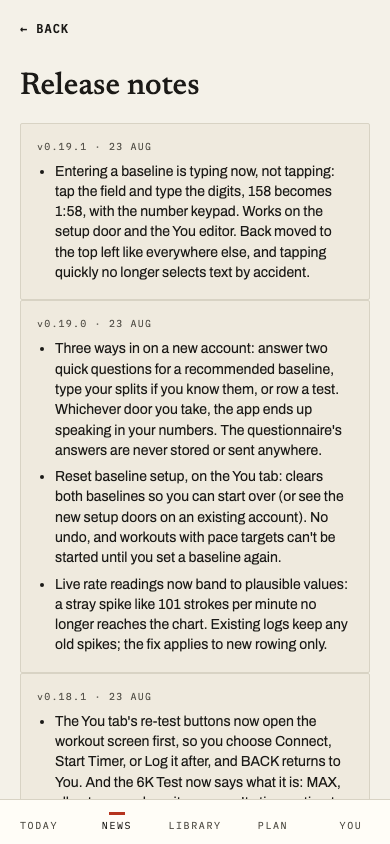
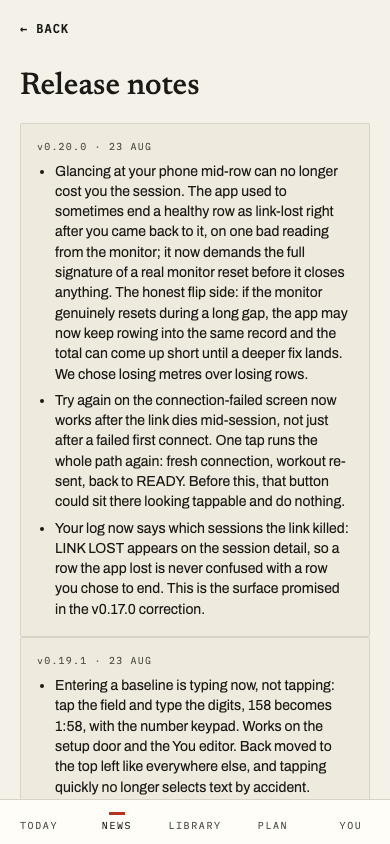
docs: v0.20.0's notes — the row you keep, the button that works, the log that says so
Range v0.19.1..main = #174 + #177, both carried; F2a's clause states both
directions per the PM gate's pre-statement.

Claude-Session: https://claude.ai/code/session_01UEXqdgDid4Qjd8D5uoRZ3H

Changed region(s): [[0.0923, 0.154, 0.8923, 0.955]]

diff --git a/app/e2e/news.spec.ts b/app/e2e/news.spec.ts
@@ -108,7 +108,7 @@ test("News at rest: 7 UNREAD, two pinned rows, five latest rows, WHAT'S NEW show
 
   await expect(page.getByRole("heading", { name: "WHAT'S NEW" })).toBeVisible();
   await expect(page.locator(".news-release-version").first()).toContainText(
-    "v0.19.1",
+    "v0.20.0",
   );
 });
 
@@ -187,25 +187,26 @@ test("/news/releases lists every version, newest first", async ({ page }) => {
   // deliberately fails here — that is this pin's job, and it is why the
   // title no longer names a number that goes stale every tag.
   const versions = page.locator(".news-release-version");
-  await expect(versions).toHaveCount(18);
-  await expect(versions.nth(0)).toContainText("v0.19.1");
-  await expect(versions.nth(1)).toContainText("v0.19.0");
-  await expect(versions.nth(2)).toContainText("v0.18.1");
-  await expect(versions.nth(3)).toContainText("v0.18.0");
-  await expect(versions.nth(4)).toContainText("v0.17.0");
-  await expect(versions.nth(5)).toContainText("v0.16.0");
-  await expect(versions.nth(6)).toContainText("v0.15.0");
-  await expect(versions.nth(7)).toContainText("v0.14.0");
-  await expect(versions.nth(8)).toContainText("v0.13.0");
-  await expect(versions.nth(9)).toContainText("v0.12.0");
-  await expect(versions.nth(10)).toContainText("v0.11.0");
-  await expect(versions.nth(11)).toContainText("v0.10.0");
-  await expect(versions.nth(12)).toContainText("v0.9.0");
-  await expect(versions.nth(13)).toContainText("v0.8.0");
-  await expect(versions.nth(14)).toContainText("v0.7.0");
-  await expect(versions.nth(15)).toContainText("v0.5.1");
-  await expect(versions.nth(16)).toContainText("v0.5.0");
-  await expect(versions.nth(17)).toContainText("v0.4.0");
+  await expect(versions).toHaveCount(19);
+  await expect(versions.nth(0)).toContainText("v0.20.0");
+  await expect(versions.nth(1)).toContainText("v0.19.1");
+  await expect(versions.nth(2)).toContainText("v0.19.0");
+  await expect(versions.nth(3)).toContainText("v0.18.1");
+  await expect(versions.nth(4)).toContainText("v0.18.0");
+  await expect(versions.nth(5)).toContainText("v0.17.0");
+  await expect(versions.nth(6)).toContainText("v0.16.0");
+  await expect(versions.nth(7)).toContainText("v0.15.0");
+  await expect(versions.nth(8)).toContainText("v0.14.0");
+  await expect(versions.nth(9)).toContainText("v0.13.0");
+  await expect(versions.nth(10)).toContainText("v0.12.0");
+  await expect(versions.nth(11)).toContainText("v0.11.0");
+  await expect(versions.nth(12)).toContainText("v0.10.0");
+  await expect(versions.nth(13)).toContainText("v0.9.0");
+  await expect(versions.nth(14)).toContainText("v0.8.0");
+  await expect(versions.nth(15)).toContainText("v0.7.0");
+  await expect(versions.nth(16)).toContainText("v0.5.1");
+  await expect(versions.nth(17)).toContainText("v0.5.0");
+  await expect(versions.nth(18)).toContainText("v0.4.0");
 });
 
 test("item 1 / round 4: opening an article from a scrolled News feed lands the reader at the top of its OWN scroller, and ← BACK now restores News's own scroll position (CL item: News scroll memory)", async ({

diff --git a/app/src/news/content/releaseNotes.ts b/app/src/news/content/releaseNotes.ts
@@ -5,6 +5,22 @@ import type { ReleaseNote } from "./types";
 // would notice, and internal-only releases are skipped.
 export const RELEASE_NOTES: ReleaseNote[] = [
   {
+    // v0.20.0 (2026-08-23): the cohort-unlock pair. Range v0.19.1..main =
+    // #174 (F2a, the continuity guard) + #177 (Try again + the LINK LOST
+    // surface) — both accounted, nothing else in the range. Written per
+    // the #174 PM gate: F2a's clause carries BOTH directions (fewer false
+    // closes AND the merge that can silently under-count until F2b), and
+    // the LINK LOST clause discharges v0.17.0's corrected "that surface
+    // is coming" promise. Tagging this discharges the F3 tag tripwire.
+    version: "v0.20.0",
+    date: "2026-08-23",
+    items: [
+      "Glancing at your phone mid-row can no longer cost you the session. The app used to sometimes end a healthy row as link-lost right after you came back to it, on one bad reading from the monitor; it now demands the full signature of a real monitor reset before it closes anything. The honest flip side: if the monitor genuinely resets during a long gap, the app may now keep rowing into the same record and the total can come up short until a deeper fix lands. We chose losing metres over losing rows.",
+      "Try again on the connection-failed screen now works after the link dies mid-session, not just after a failed first connect. One tap runs the whole path again: fresh connection, workout re-sent, back to READY. Before this, that button could sit there looking tappable and do nothing.",
+      "Your log now says which sessions the link killed: LINK LOST appears on the session detail, so a row the app lost is never confused with a row you chose to end. This is the surface promised in the v0.17.0 correction.",
+    ],
+  },
+  {
     // v0.19.1 (2026-08-23): PR #175 only — James's same-day feedback on
     // v0.19.0's baseline entry. Range v0.19.0..main = that one merge.
     version: "v0.19.1",

diff --git a/app/e2e/screenshots.spec.ts b/app/e2e/screenshots.spec.ts
@@ -1346,7 +1346,7 @@ test("releases", async ({ page }) => {
   // without bumping this pin, which broke `pnpm screenshots` on main
   // (caught 2026-08-23; e2e doesn't run this project, so nothing gated it).
   await expect(page.locator(".news-release-version").first()).toContainText(
-    "v0.19.1",
+    "v0.20.0",
   );
   await page.screenshot({
     path: path.join(SCREENSHOTS_DIR, "releases.png"),
